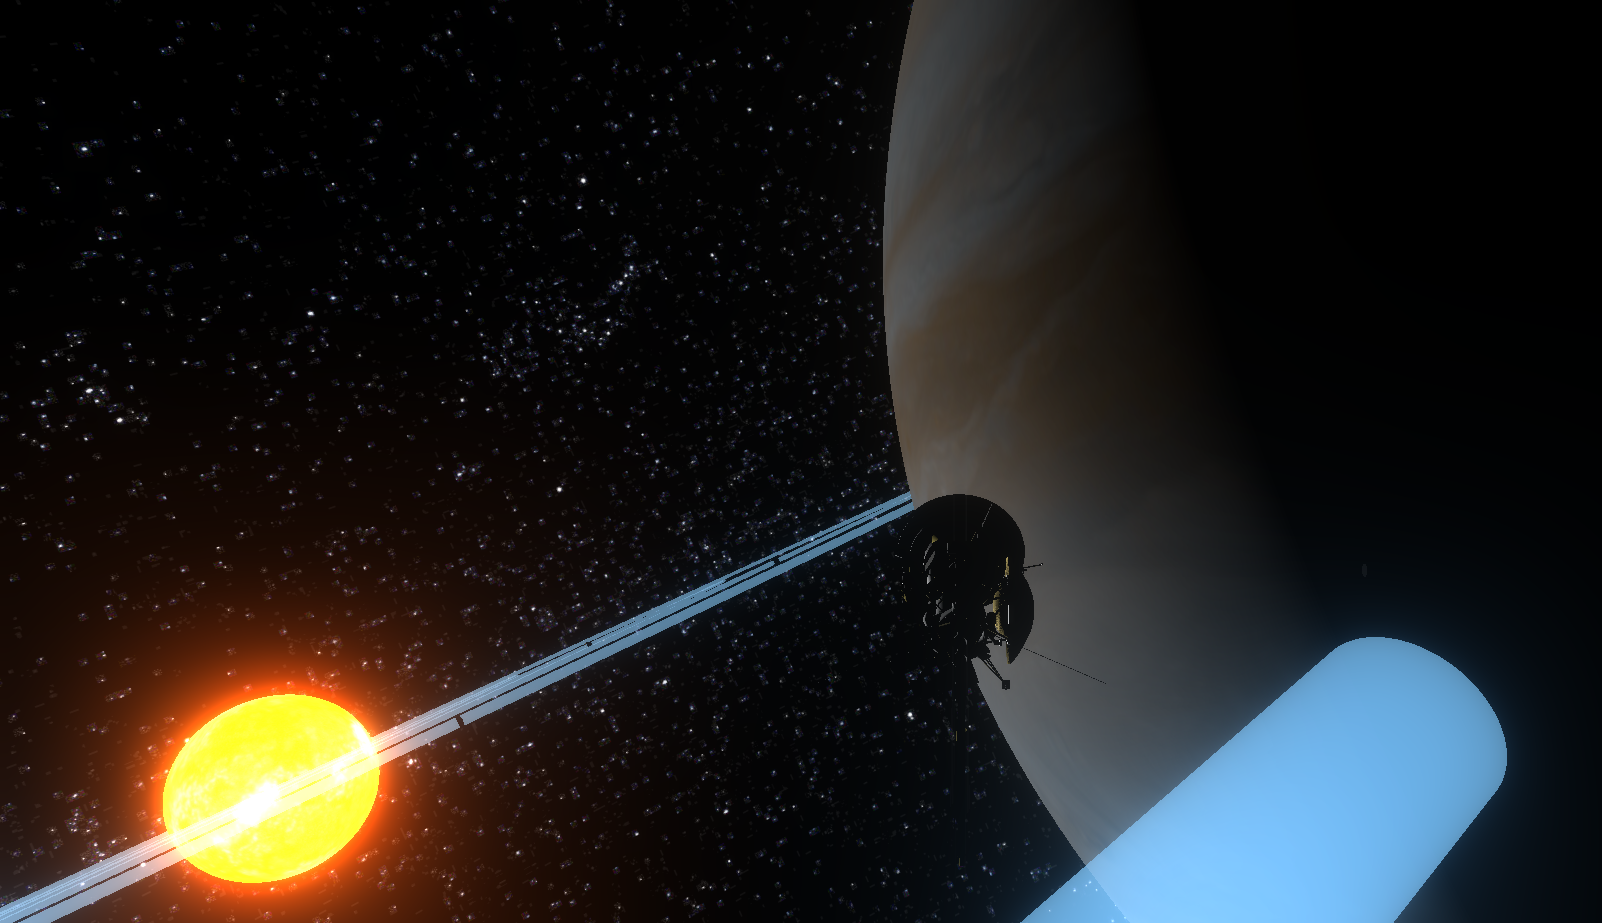
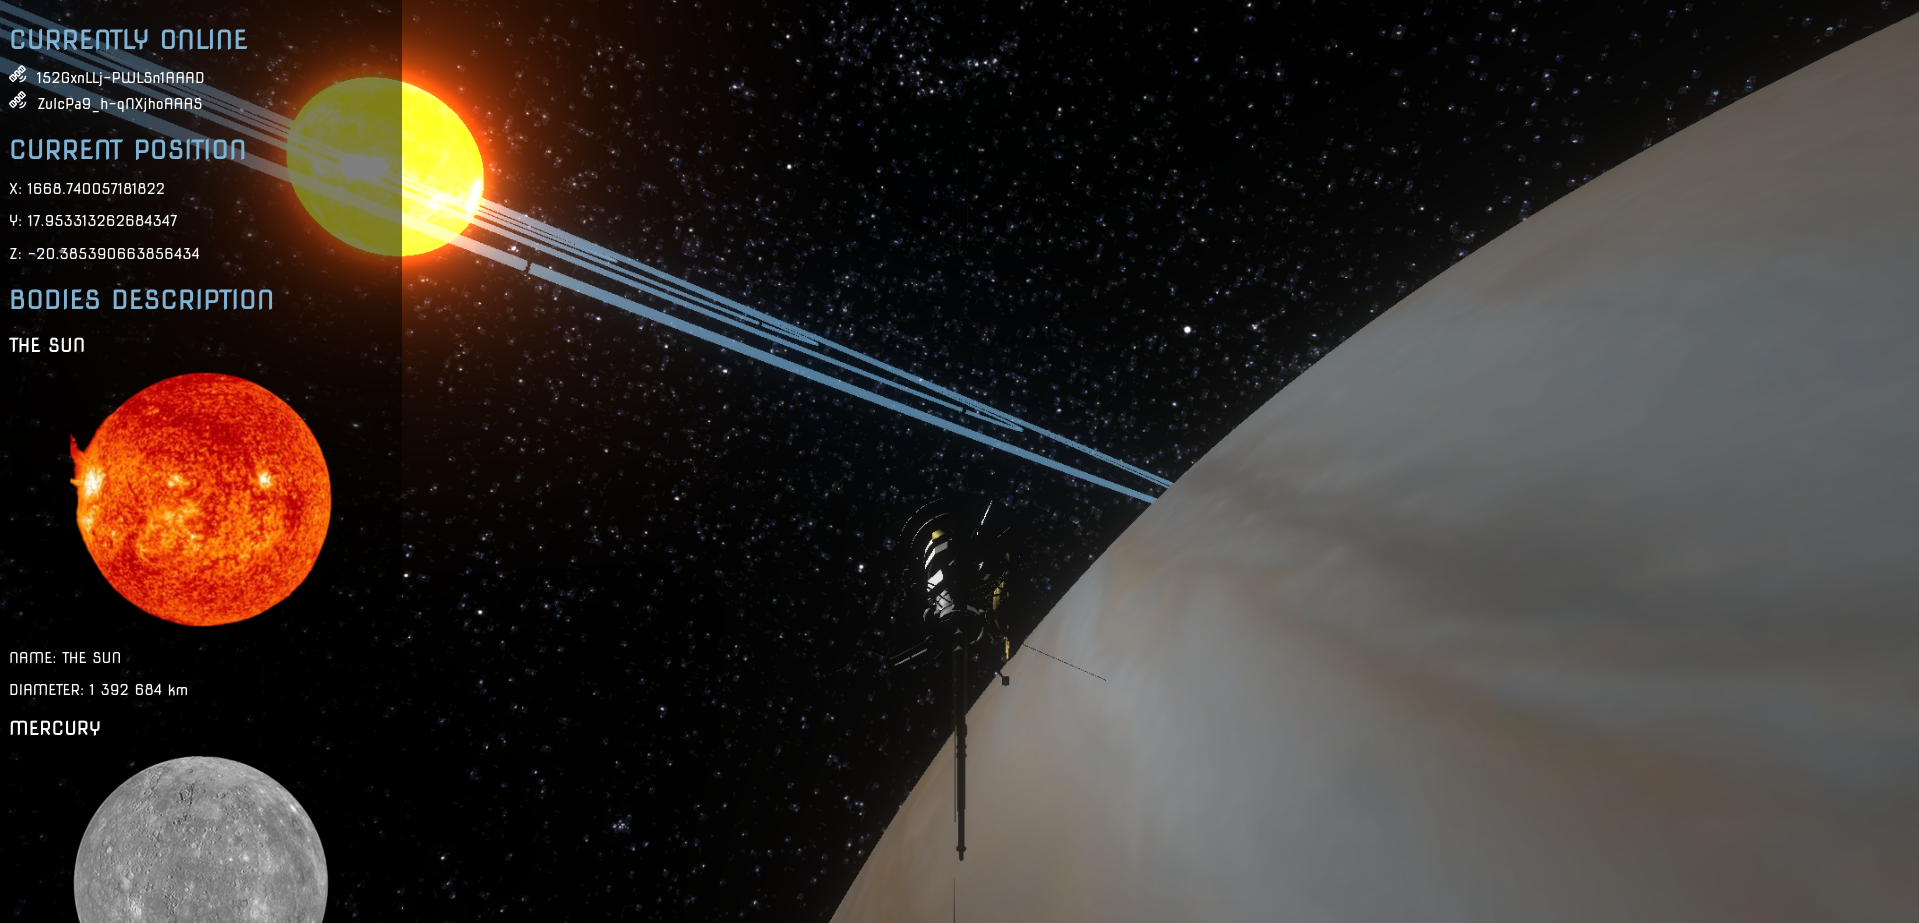
feat: Adds a sidebar that displays connected clients, current position and bodies descriptions

diff --git a/client/src/code/interface/Sidebar.js b/client/src/code/interface/Sidebar.js
@@ -1,0 +1,101 @@
+/*  Component: Sidebar
+    @authors: Cédric ABDELBAKI, Yanis KOUIDRI, Alban PERSONNAZ
+    @contributors:
+    @version: 0.1
+*/
+export default {
+  /*  Initializes the component data (clients, position and bodies).
+  */
+  data() {
+    return {
+      currentlyOnline: [],
+      currentPosition: { x: 0, y: 0, z: 0 },
+      celestialBodies: [
+        {
+          name: "THE SUN",
+          image: "/src/assets/interface/pictures/sun.png",
+          diameter: "1 392 684 km",
+        },
+        {
+          name: "MERCURY",
+          image: "/src/assets/interface/pictures/mercury.png",
+          diameter: "4 879 km",
+        },
+        {
+          name: "VENUS",
+          image: "/src/assets/interface/pictures/venus.png",
+          diameter: "12 104 km",
+        },
+        {
+          name: "EARTH",
+          image: "/src/assets/interface/pictures/earth.png",
+          diameter: "12 742 km",
+        },
+        {
+          name: "MARS",
+          image: "/src/assets/interface/pictures/mars.png",
+          diameter: "6 779 km",
+        },
+        {
+          name: "JUPITER",
+          image: "/src/assets/interface/pictures/jupiter.png",
+          diameter: "139 820 km",
+        },
+        {
+          name: "SATURN",
+          image: "/src/assets/interface/pictures/saturn.png",
+          diameter: "116 460 km",
+        },
+        {
+          name: "URANUS",
+          image: "/src/assets/interface/pictures/uranus.png",
+          diameter: "50 724 km",
+        },
+        {
+          name: "NEPTUNE",
+          image: "/src/assets/interface/pictures/neptune.png",
+          diameter: "49 244 km",
+        },
+      ],
+    }
+  },
+
+  /*  A hook to listen on socket interactions to update the component data.
+  */
+  mounted() {
+    this.$root.socket.on('updateTransmission', (data) => {
+      this.currentlyOnline = Object.keys(data);
+      const id = this.$root.socket.id;
+      if (id in data && data[id].position) {
+        this.currentPosition = data[id].position;
+      }
+    })
+  },
+
+  /*  The html code for the component.
+  */
+  template: `
+    <div class="sidebar-container">
+      <h2 class="title">CURRENTLY ONLINE</h2>
+      <ul style="list-style-type: none; padding: 0; margin: 0;">
+        <li v-for="id in currentlyOnline" :key="id" style="margin-bottom: 5px;">
+          <img src="/src/assets/interface/icons/satellite.svg" alt="sat-icon" style="width: 20px; height: 20px; margin-right: 5px;">
+          {{ id }}
+        </li>
+      </ul>
+      <h2 class="title">CURRENT POSITION</h2>
+      <p>X: {{ currentPosition.x }}</p>
+      <p>Y: {{ currentPosition.y }}</p>
+      <p>Z: {{ currentPosition.z }}</p>
+      <h2 class="title">BODIES DESCRIPTION</h2>
+      <div v-for="body in celestialBodies" :key="body.name" class="celestial-body">
+        <h3 class="body">{{ body.name }}</h3>
+        <div class="picture-container">
+          <img :src="body.image" :alt="body.name" class="picture">
+        </div>
+        <p>NAME: {{ body.name }}</p>
+        <p>DIAMETER: {{ body.diameter }}</p>
+      </div>
+    </div>
+  `,
+}

diff --git a/client/src/code/graphic-app/GraphicApp.js b/client/src/code/graphic-app/GraphicApp.js
@@ -27,9 +27,9 @@ export class GraphicApp {
     /*  Calls methods to run the application, handle network
         interactions and animations.
     */
-    constructor() {
+    constructor(socket) {
         this.initialize()
-        this.handleNetworkInteractions()
+        this.handleNetworkInteractions(socket)
         this.animate()
     }
 
@@ -57,8 +57,8 @@ export class GraphicApp {
 
     /*  Handles client-server interactions.
     */
-    handleNetworkInteractions() {
-        this.socket = io()
+    handleNetworkInteractions(socket) {
+        this.socket = socket
         this.satellites = {}
         this.handleConnection()
         this.handleUpdates()
@@ -165,5 +165,3 @@ export class GraphicApp {
         animate()
     }
 }
-
-new GraphicApp()

diff --git a/client/src/code/Main.js b/client/src/code/Main.js
@@ -1,0 +1,28 @@
+import { GraphicApp } from './graphic-app/GraphicApp.js'
+import Sidebar from './interface/Sidebar.js'
+
+/*  File: Main
+    @authors: Cédric ABDELBAKI, Yanis KOUIDRI, Alban PERSONNAZ
+    @contributors:
+    @version: 0.1
+*/
+const socket = io()
+// Creates a new Vue.js application.
+new Vue({
+    el: '#app',
+    components: {
+        Sidebar,
+    },
+    data: {
+        socket: socket,
+    },
+    template: `
+        <div>
+            <sidebar></sidebar>
+        </div>
+    `,
+    mounted() {
+        // Creates a new 3D representation of the solar system.
+        const app = new GraphicApp(this.socket)
+    }
+});

diff --git a/client/src/files/interface/sidebar.css b/client/src/files/interface/sidebar.css
@@ -1,0 +1,36 @@
+  .sidebar-container {
+    position: absolute;
+    top: 0;
+    left: 0;
+    width: 20%;
+    height: 100%;
+    background-color: rgba(0, 0, 0, 0.5);
+    color: white;
+    padding: 10px;
+    overflow-y: auto;
+    z-index: 9998;
+    font-family: 'Nova Square', sans-serif;
+  }
+
+  .title {
+    font-size: 28px;
+    margin-bottom: 10px;
+    color: #7fb3d5 ;
+  }
+
+  .body {
+    font-size: 20px;
+    margin-bottom: 10px;
+  }
+
+  .picture-container {
+    display: flex;
+    justify-content: center;
+    align-items: center;
+    margin-bottom: 10px;
+  }
+
+  .picture {
+    width: 70%;
+    height: 70%;
+  }

diff --git a/client/index.html b/client/index.html
@@ -6,9 +6,13 @@
 		<style>
 			body { margin: 0; }
 		</style>
+		<link href="https://fonts.googleapis.com/css2?family=Nova+Square&display=swap" rel="stylesheet"> 
+		<link href="src/files/interface/sidebar.css" rel="stylesheet">
 	</head>
 	<body>
+		<div id="app"></div>		
+		<script crossorigin src="https://cdn.jsdelivr.net/npm/vue@2"></script>
         <script src="/socket.io/socket.io.js"></script>
-		<script type="module" src="/src/code/graphic-app/GraphicApp.js"></script>
+		<script type="module" src="/src/code/Main.js"></script>
 	</body>
 </html>

diff --git a/README.md b/README.md
@@ -4,20 +4,20 @@
 
 ***
 
-A 3D representation of the solar system using express, socket.io and Three.js.
+A 3D representation of the solar system using express, socket.io, Vue.js and Three.js.
 
 ![solar_system_explorer](./images/solar_system_explorer.png)
 
 ## DESCRIPTION :
 
 This program allows you to control the Cassini-Huygens probe
-to explore the solar system alongside other explorers.
+to explore the solar system alongside other explorers. A sidebar on the left side of the screen displays the connected clients identifiers, the current position and a description with a picture of each celestial bodies.
 
 ## HOW TO RUN :
 
 - `npm init es6`
 - `npm install express socket.io`
-- `node server/graphic-app/GraphicAppServer.js`
+- `node server/graphic-app/App.js`
 - localhost:3000 on a web browser
 
 ## CONTROLS :
@@ -25,9 +25,11 @@ to explore the solar system alongside other explorers.
 - **Z**/**Q**/**S**/**D** to move forwards, left, backwards, right
 - **A**/**E** to roll left and right
 - Drag to look with mouse left button
+- Scroll through the sidebar with mouse wheel
 
 ## ASSETS :
 
 All planets textures were downloaded from the https://www.solarsystemscope.com/ website.
 The Cassini-Huyguens 3D model was downloaded from uperesito's sketchfab page : https://sketchfab.com/uperesito.
+Pictures in the sidebar are from NASA websites. The Satellite icon was downloaded from the https://fonts.google.com/icons website.
 
